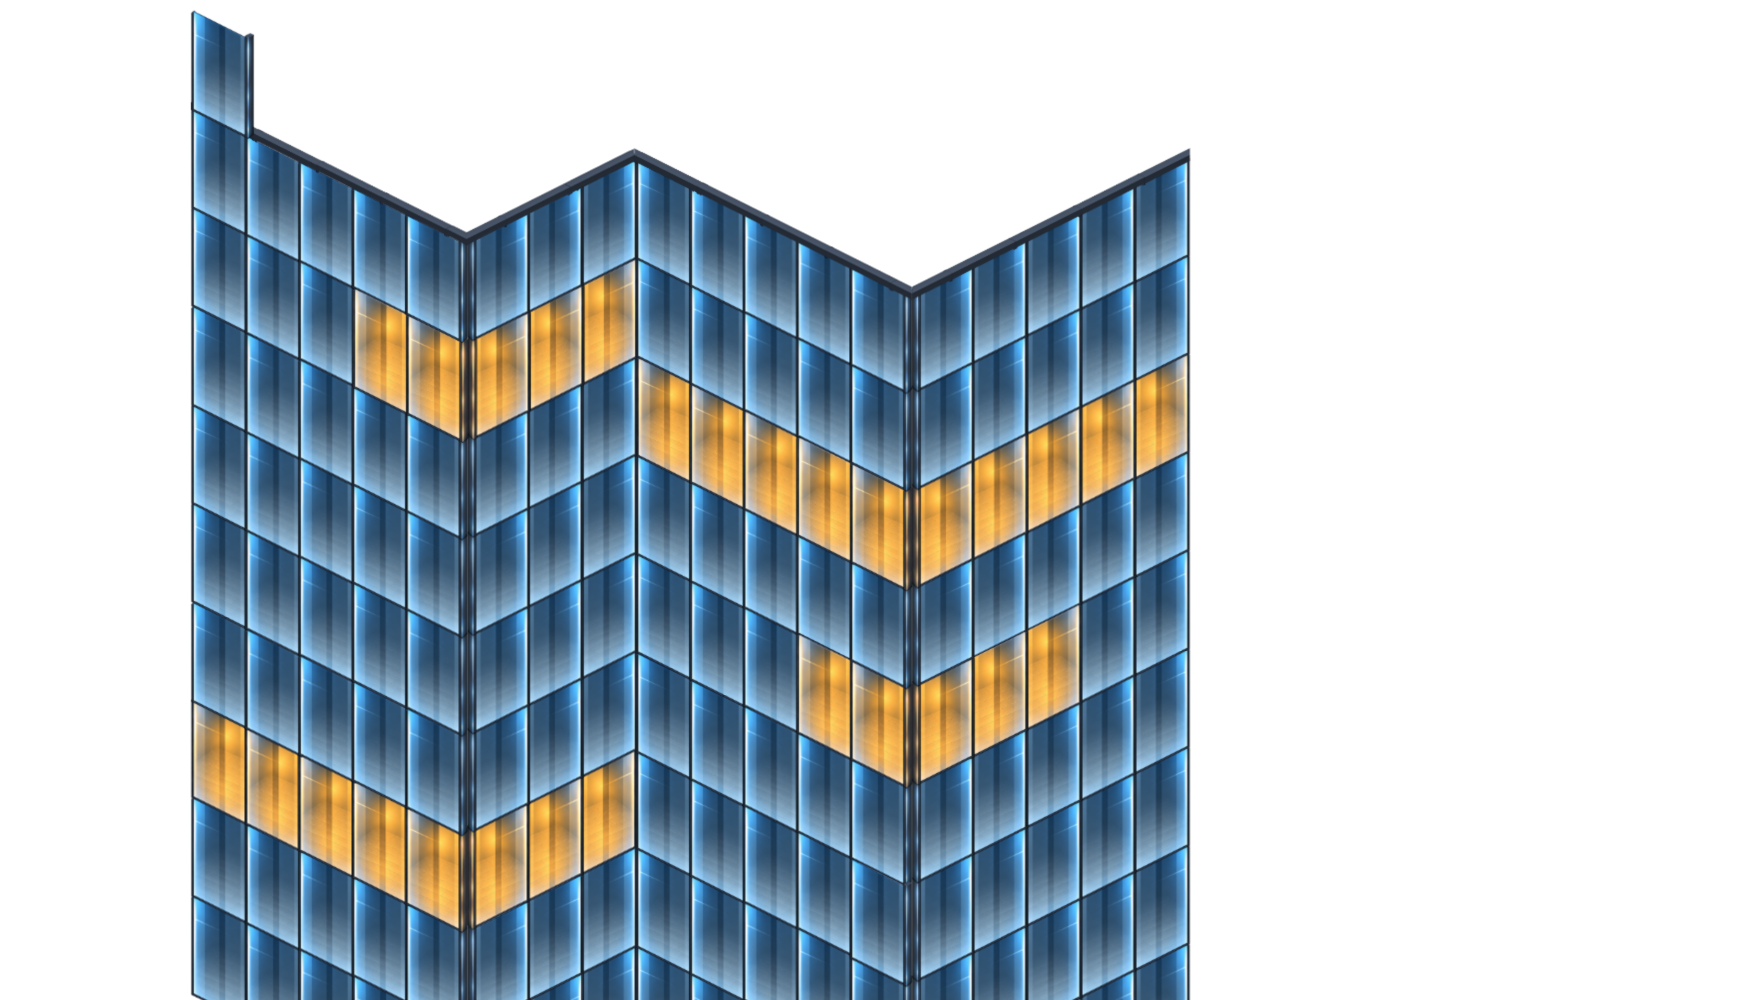
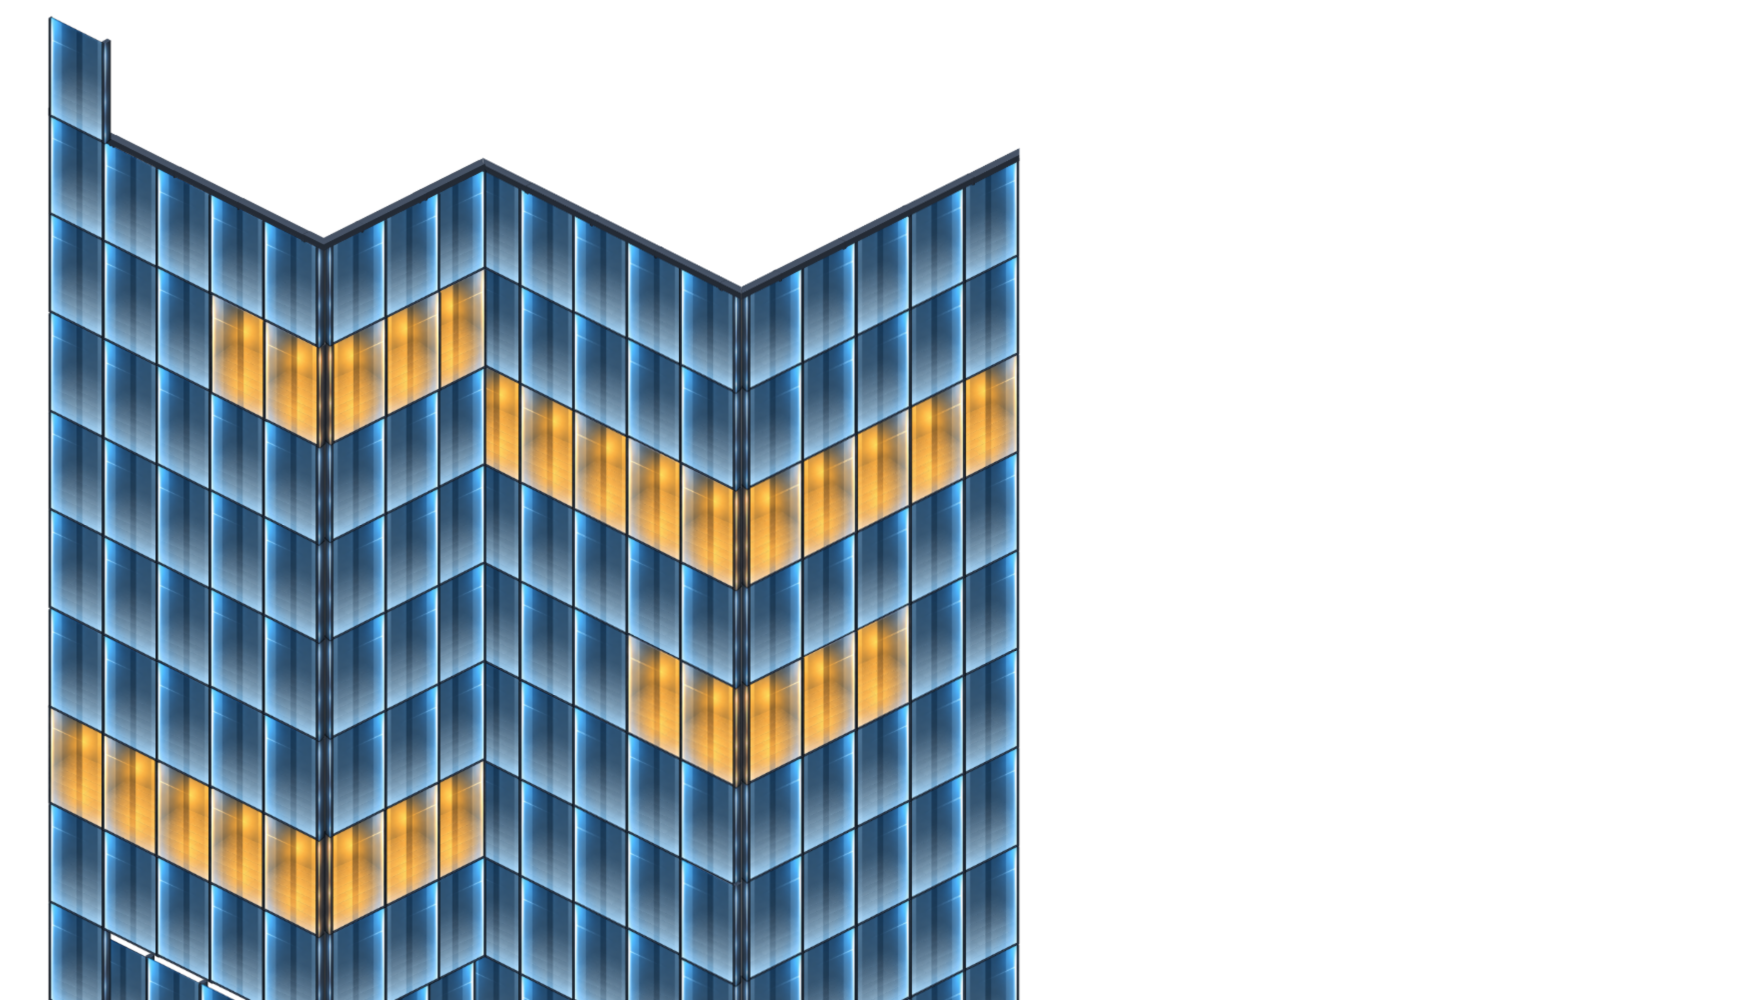
Troca imagem da vidraça 2 por versão reposicionada por Douglas
"lado direito nao encaixou" -- a arte original ia além de x≈1190 no
PNG, causando desencaixe na quina. Douglas substituiu o arquivo por
uma versão com o mesmo zigue-zague deslocado pra esquerda (conteúdo
opaco agora termina em x≈1020). Vão entre janelas segue idêntico
(54px, reconferido em 5 faixas horizontais da imagem nova), então a
escala (FACADE_CORNER2_SCALE) não muda -- só o ápice de ancoragem
(FACADE_CORNER2_APEX_X_PX/Y_PX), que acompanhou o deslocamento:
x≈911->740, y praticamente igual (286->285).

Claude-Session: https://claude.ai/code/session_018xm3GX2bQC8Nuwuw2rsoPK

diff --git a/game/MainScene.ts b/game/MainScene.ts
@@ -493,19 +493,23 @@ const FACADE_SCALE = 128 / 53.6;
 //
 // ARTE TROCADA (pedido do Douglas: "vamos precisar mudar a vidraca 2 de
 // lugar, e trocar a imagem tambem") -- PNG novo (1750x1000, zigue-zague
-// com 2 "V"s + faixa diagonal dourada), substitui o antigo (448x955, um
-// "V" só). Ápice usado é o V mais FUNDO dos dois (o mais profundo/
-// prominente -- achado igual sempre, perfil de alpha coluna a coluna,
-// pico em x≈911 -> y≈286 num total de 1000px de altura), não o primeiro
-// V (mais raso, x≈466 -> y≈231) nem o pico entre os dois (x≈634 ->
-// y≈148). Ainda NÃO testado ao vivo -- ápice é só a medição bruta do
-// PNG, sem nenhum ajuste fino por cima ainda (ver
-// FACADE_CORNER2_OFFSET_X_PX/Y_PX abaixo, zerados de propósito: o
-// histórico de offset anterior era calibrado pra arte/posição ANTIGAS,
-// não serve mais pra essa combinação nova).
+// com 2 "V"s + faixa diagonal dourada). Douglas reportou ("lado
+// direito nao encaixou") e reposicionou o desenho DENTRO do PNG (2ª
+// versão da arte, mesmo arquivo substituído de novo) -- o conteúdo
+// opaco agora só vai até x≈1020 (antes ia além de x≈1190), ou seja
+// todo o zigue-zague foi deslocado pra esquerda dentro do canvas. O
+// vão entre janelas continua o mesmo (54px, conferido de novo em 5
+// faixas horizontais diferentes -- mesma arte, só reposicionada), mas
+// o ápice (V mais FUNDO dos dois) mudou de lugar dentro do arquivo:
+// agora x≈740 -> y≈285 (era x≈911 -> y≈286 na versão anterior do PNG).
+// Raso continua relativo logo depois (não remedido, só desloca junto).
+// Ainda NÃO testado ao vivo -- ápice é só a medição bruta do PNG novo,
+// sem ajuste fino por cima (ver FACADE_CORNER2_OFFSET_X_PX/Y_PX
+// abaixo, mantidos zerados: Douglas disse que já reposicionou pelo
+// lado da arte, offset de tile fica por conta do próximo print).
 const FACADE_CORNER2_TEXTURE_KEY = "fachada-predio-quina-2";
-const FACADE_CORNER2_APEX_X_PX = 911;
-const FACADE_CORNER2_APEX_Y_PX = 286;
+const FACADE_CORNER2_APEX_X_PX = 740;
+const FACADE_CORNER2_APEX_Y_PX = 285;
 /** Escala PRÓPRIA dessa peça -- Douglas confirmou a regra depois de ver
  * o primeiro resultado ("ta do mesmo tamanho que a fachada 01" / "a
  * vidraca deve cobrir dois tiles"): é a MESMA regra de sempre
